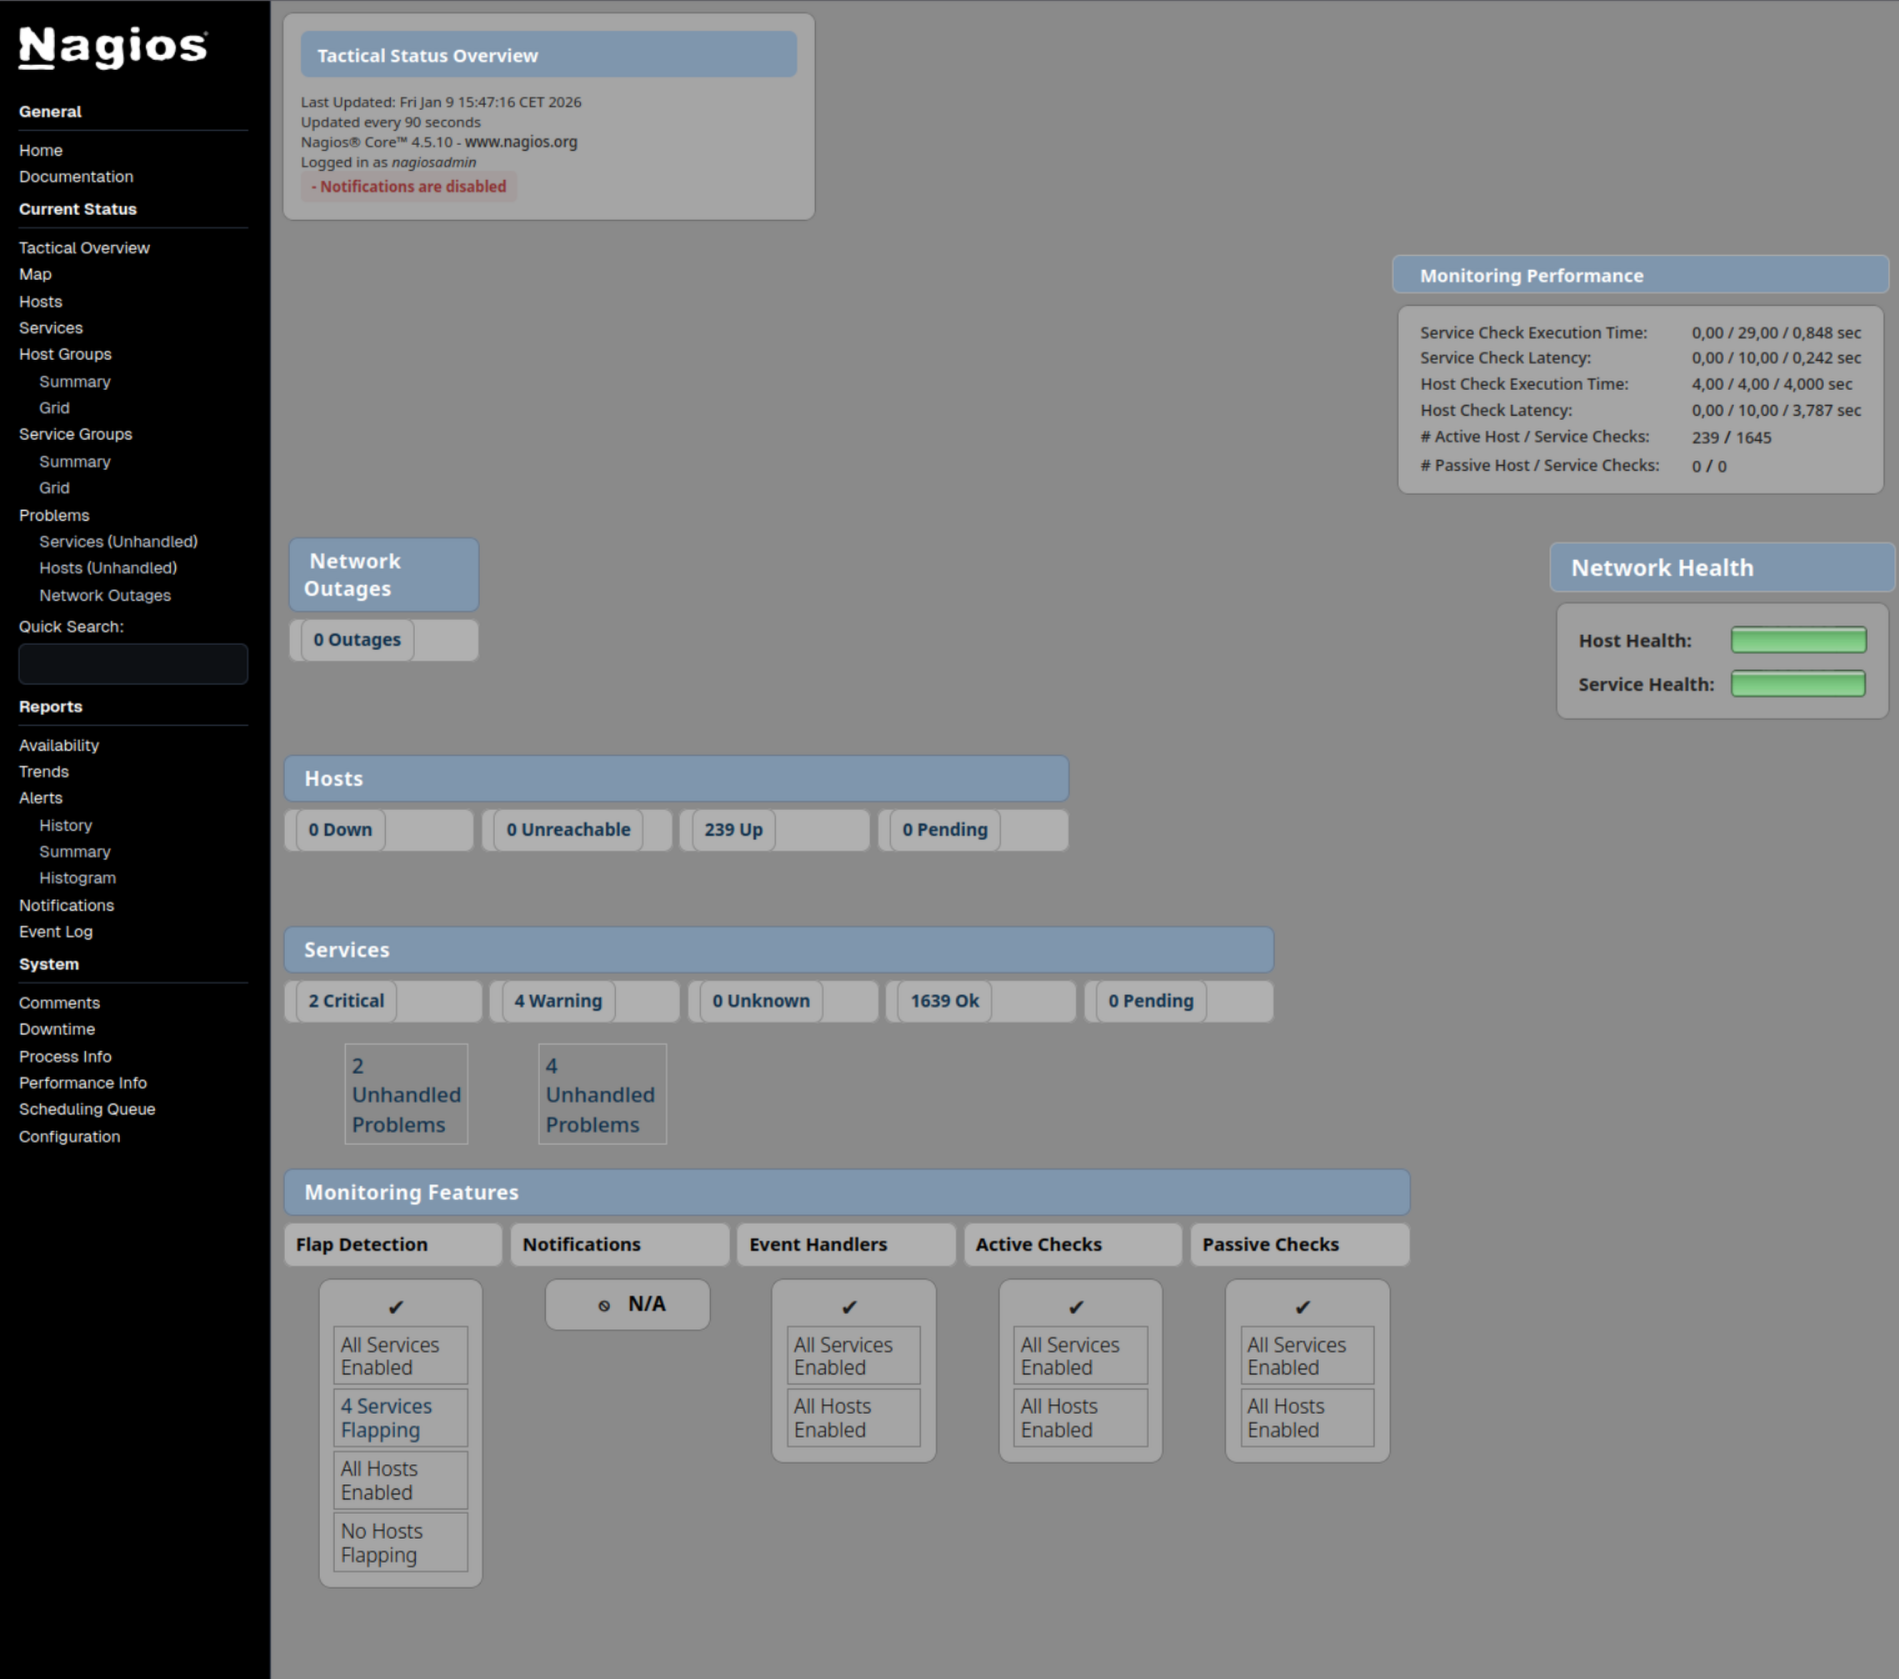
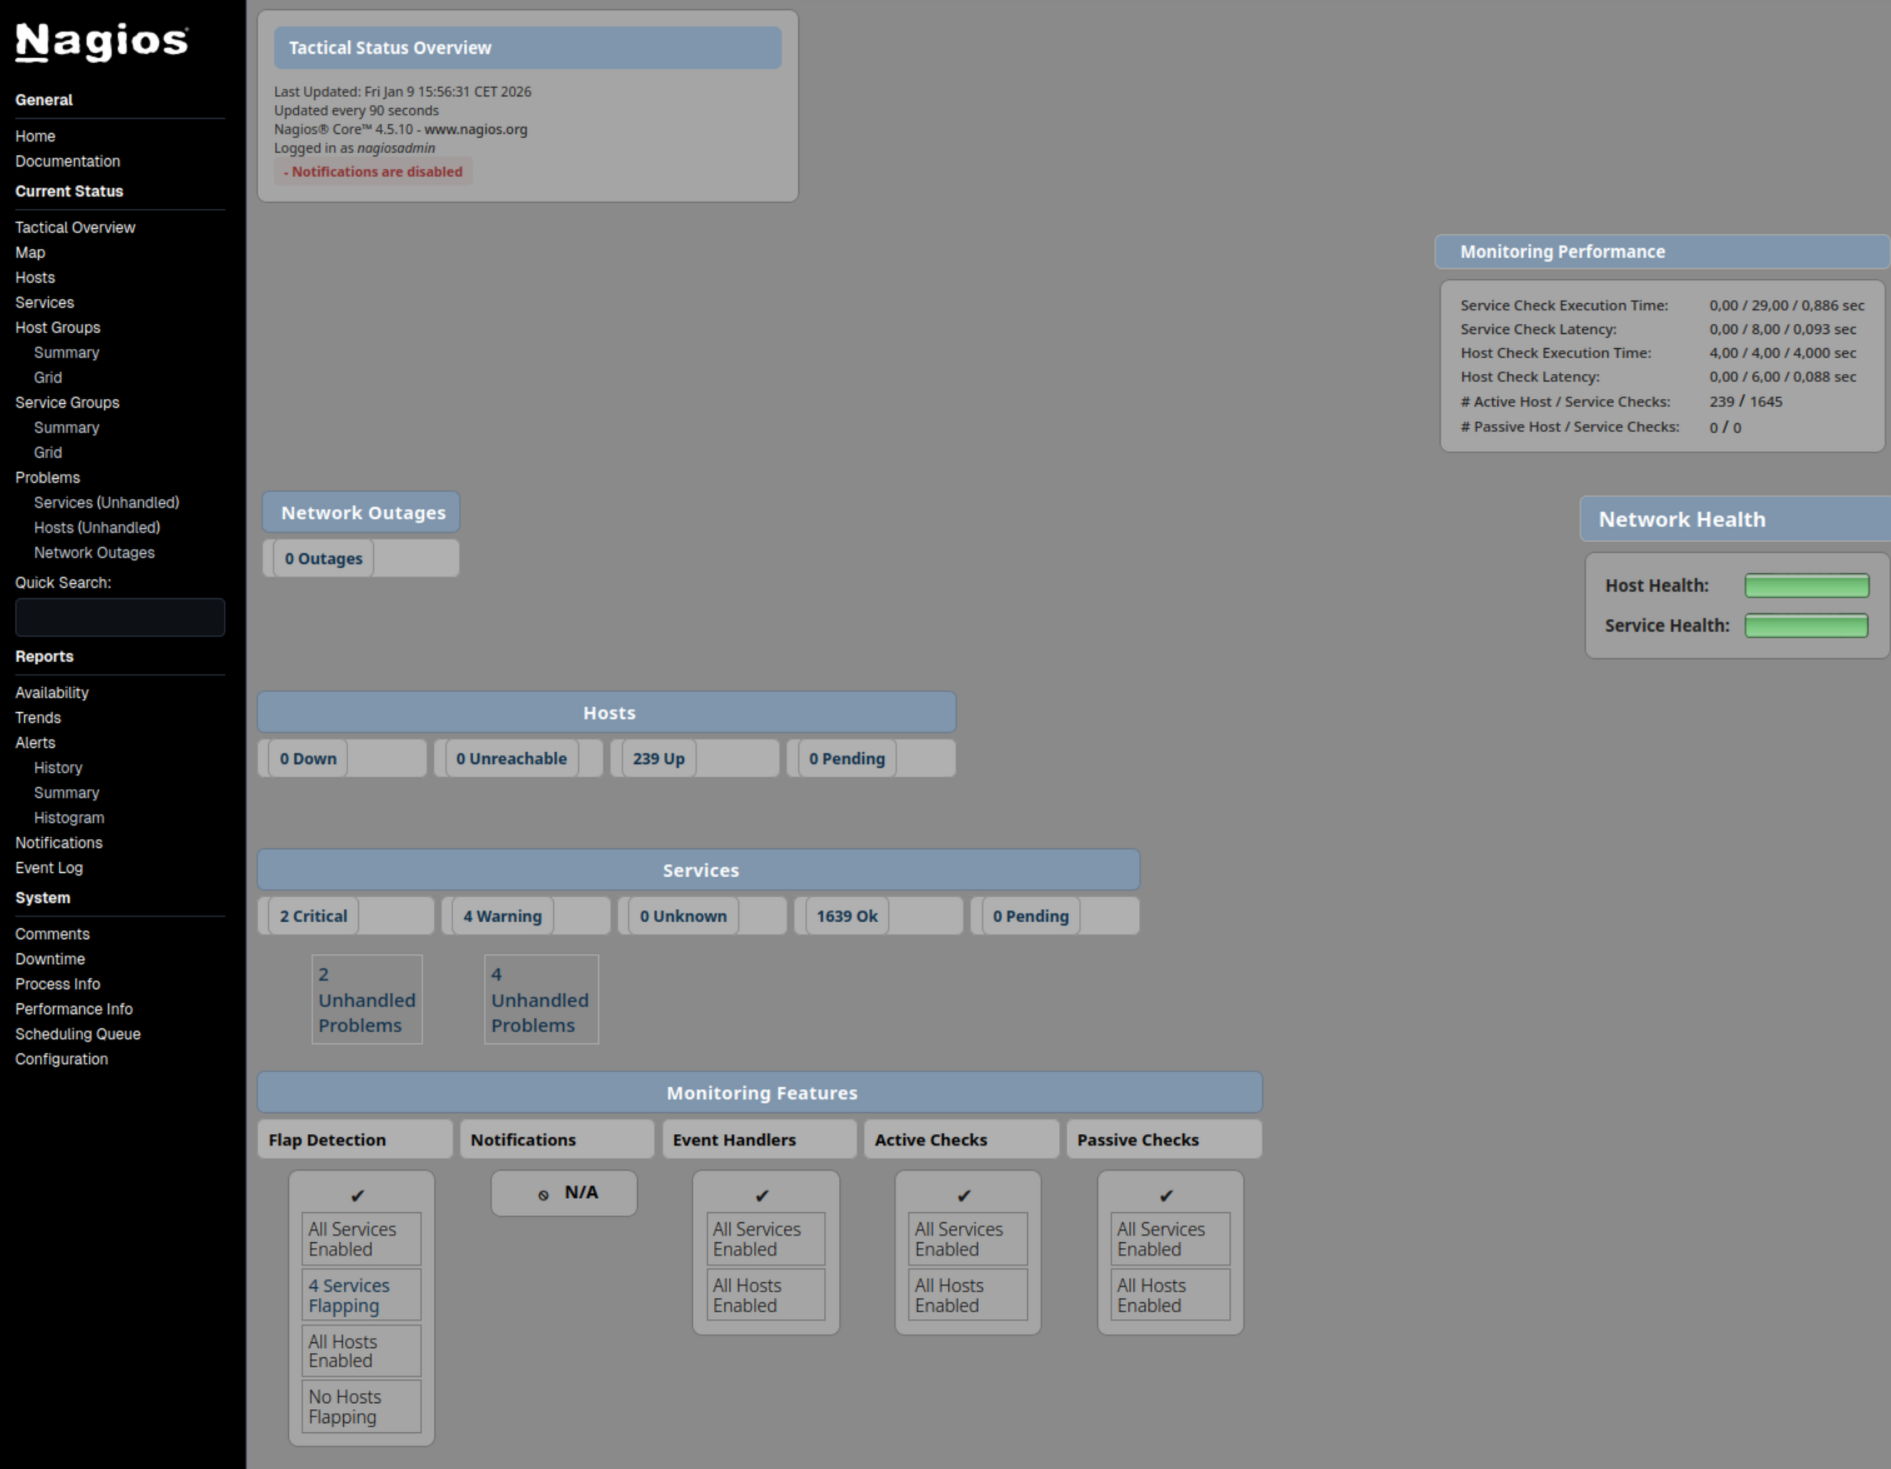
Update tactical overview

Changed region(s): [[0.0, 0.0, 0.7488, 1.0], [0.7176, 0.1532, 1.0, 0.4595]]

diff --git a/stylesheets/tac.css b/stylesheets/tac.css
@@ -364,7 +364,7 @@ body.tac {
 
 /* ingrandisce tutta la griglia TAC */
 body.tac table.tac {
-    transform: scale(1.06);
+    transform: scale(1.03);
     transform-origin: top left;
     margin-bottom: 8px;
 } 
@@ -500,7 +500,15 @@ body.tac .hostTitle,
 body.tac .serviceTitle,
 body.tac .featureTitle {
     margin-top: 0 !important;
+    white-space: nowrap;
+    text-align: center;
 }
+
+/* allarga leggermente il box Network Outages */
+body.tac table.tac[width="135"] {
+    width: 160px !important;
+}
+
 
 
 /* =========================================================
